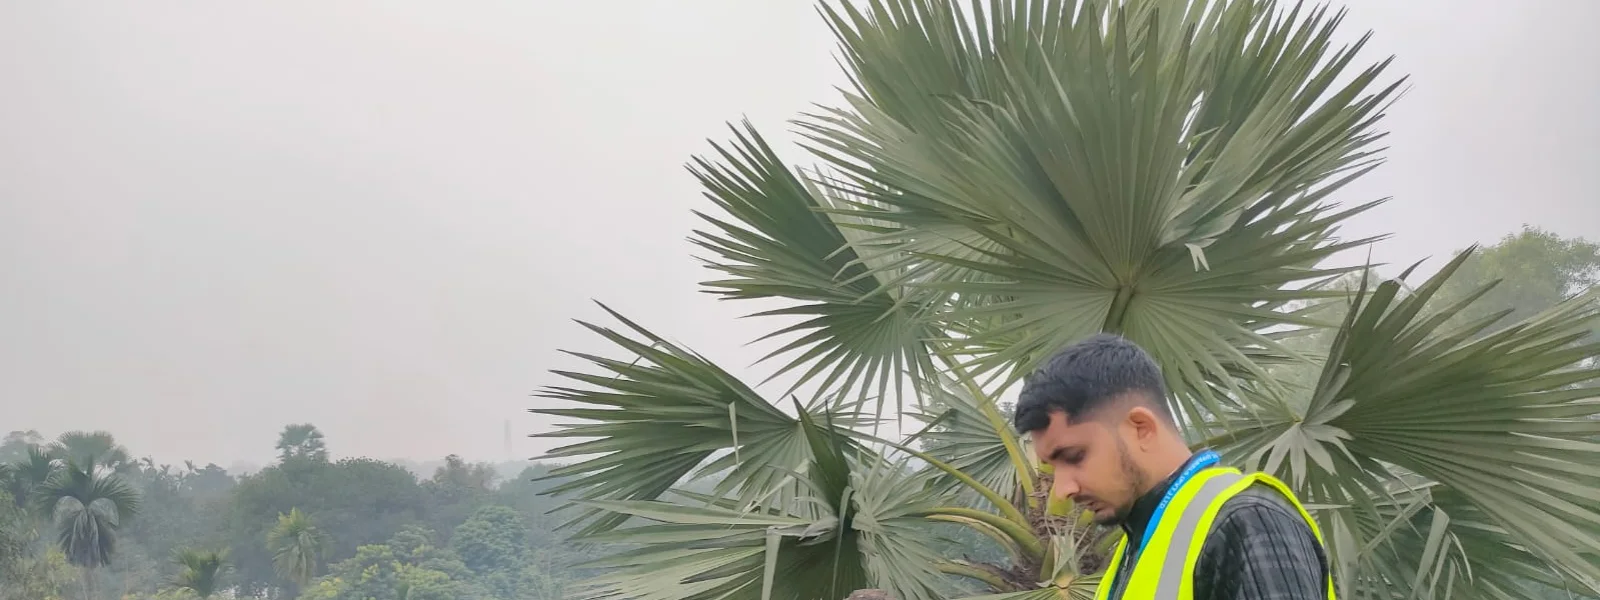
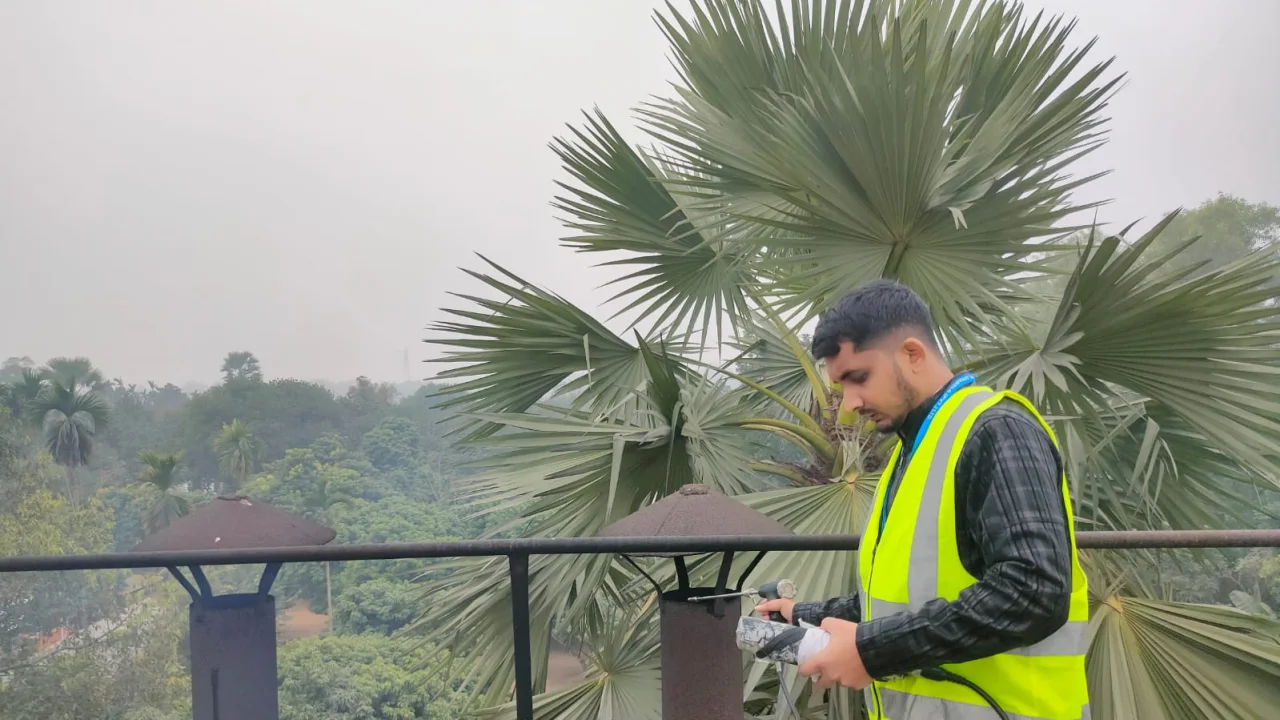
Make public photo bands smaller and show full context
The header/photo bands were full-width with a tall 16:6 crop, so person-
focused photos looked oversized and cut to a "half view". Bands are now
contained (max-width 760px, centred) and use a gentler 16:9 crop, so each
photo reads as a whole scene (subject + surroundings) at a smaller footprint.

- Regenerated the 4 band images at 1280x720 (16:9) with per-image anchors.
- CSS: .page-hero-media contained + 16:9 with height:auto (so aspect-ratio
  actually applies). Hero (home) unchanged. CSS ?v=11.

Verified on Home, Services, Training and About. PublicSiteTest green; Pint clean.

diff --git a/public/css/smsea-site.css b/public/css/smsea-site.css
@@ -64,8 +64,10 @@ h1,h2,h3,h4{color:var(--ink);line-height:1.18;margin:0 0 .5em;font-weight:700;le
 .hero-grid{display:grid;grid-template-columns:1.06fr .94fr;gap:46px;align-items:center;padding:60px 0 54px}
 .hero-grid .hero-copy{max-width:640px}
 .hero-media img{width:100%;height:auto;aspect-ratio:4/3;object-fit:cover;object-position:center;border-radius:18px;box-shadow:var(--shadow);display:block;background:var(--softer)}
-/* Restrained page-header photo band (Services / Training) */
-.page-hero-media img{width:100%;aspect-ratio:16/6;object-fit:cover;object-position:center;border-radius:16px;box-shadow:var(--shadow);display:block;background:var(--softer)}
+/* Restrained page-header photo band (Services / Training / About / home field).
+   Contained + 16:9 so the whole scene reads (not a tight, oversized half-crop). */
+.page-hero-media{max-width:760px;margin:0 auto}
+.page-hero-media img{width:100%;height:auto;aspect-ratio:16/9;object-fit:cover;object-position:center;border-radius:16px;box-shadow:var(--shadow);display:block;background:var(--softer)}
 /* Subtle, safe reveal: content is visible by default; only enhanced when JS is
    present and motion is allowed, with a guaranteed reveal fallback. */
 @media (prefers-reduced-motion: no-preference){

diff --git a/resources/views/public/layouts/site.blade.php b/resources/views/public/layouts/site.blade.php
@@ -19,7 +19,7 @@
     <link rel="preconnect" href="https://fonts.googleapis.com">
     <link rel="preconnect" href="https://fonts.gstatic.com" crossorigin>
     <link href="https://fonts.googleapis.com/css2?family=Inter:wght@400;500;600;700;800&display=swap" rel="stylesheet">
-    <link href="{{ asset('css/smsea-site.css') }}?v=9" rel="stylesheet">
+    <link href="{{ asset('css/smsea-site.css') }}?v=11" rel="stylesheet">
     @php
         // Built in a @php block so Blade's @context directive never touches the
         // literal "@context"/"@type" JSON-LD keys (that would corrupt the markup).

diff --git a/resources/views/public/partials/page_header_image.blade.php b/resources/views/public/partials/page_header_image.blade.php
@@ -4,7 +4,7 @@
     <section class="section" style="padding-top:0">
         <div class="wrap">
             <div class="page-hero-media reveal">
-                <img src="{{ asset($file) }}" alt="{{ $alt }}" width="1600" height="600" loading="lazy">
+                <img src="{{ asset($file) }}" alt="{{ $alt }}" width="1280" height="720" loading="lazy">
             </div>
         </div>
     </section>
